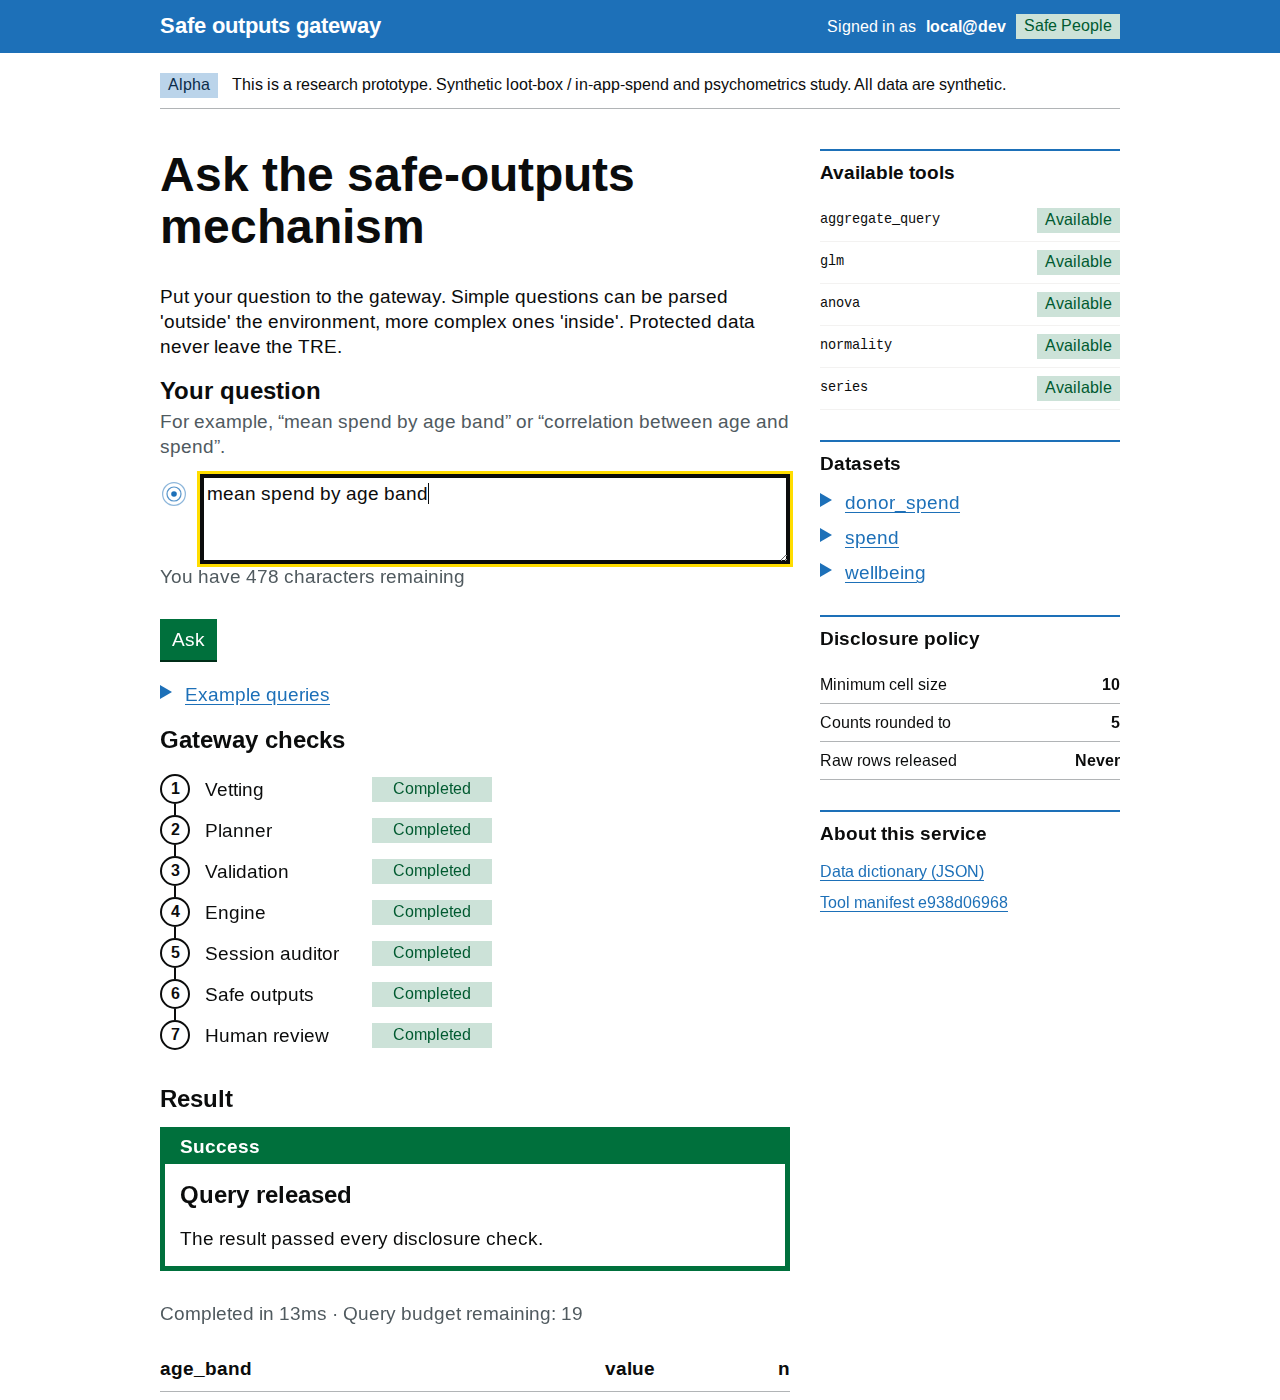
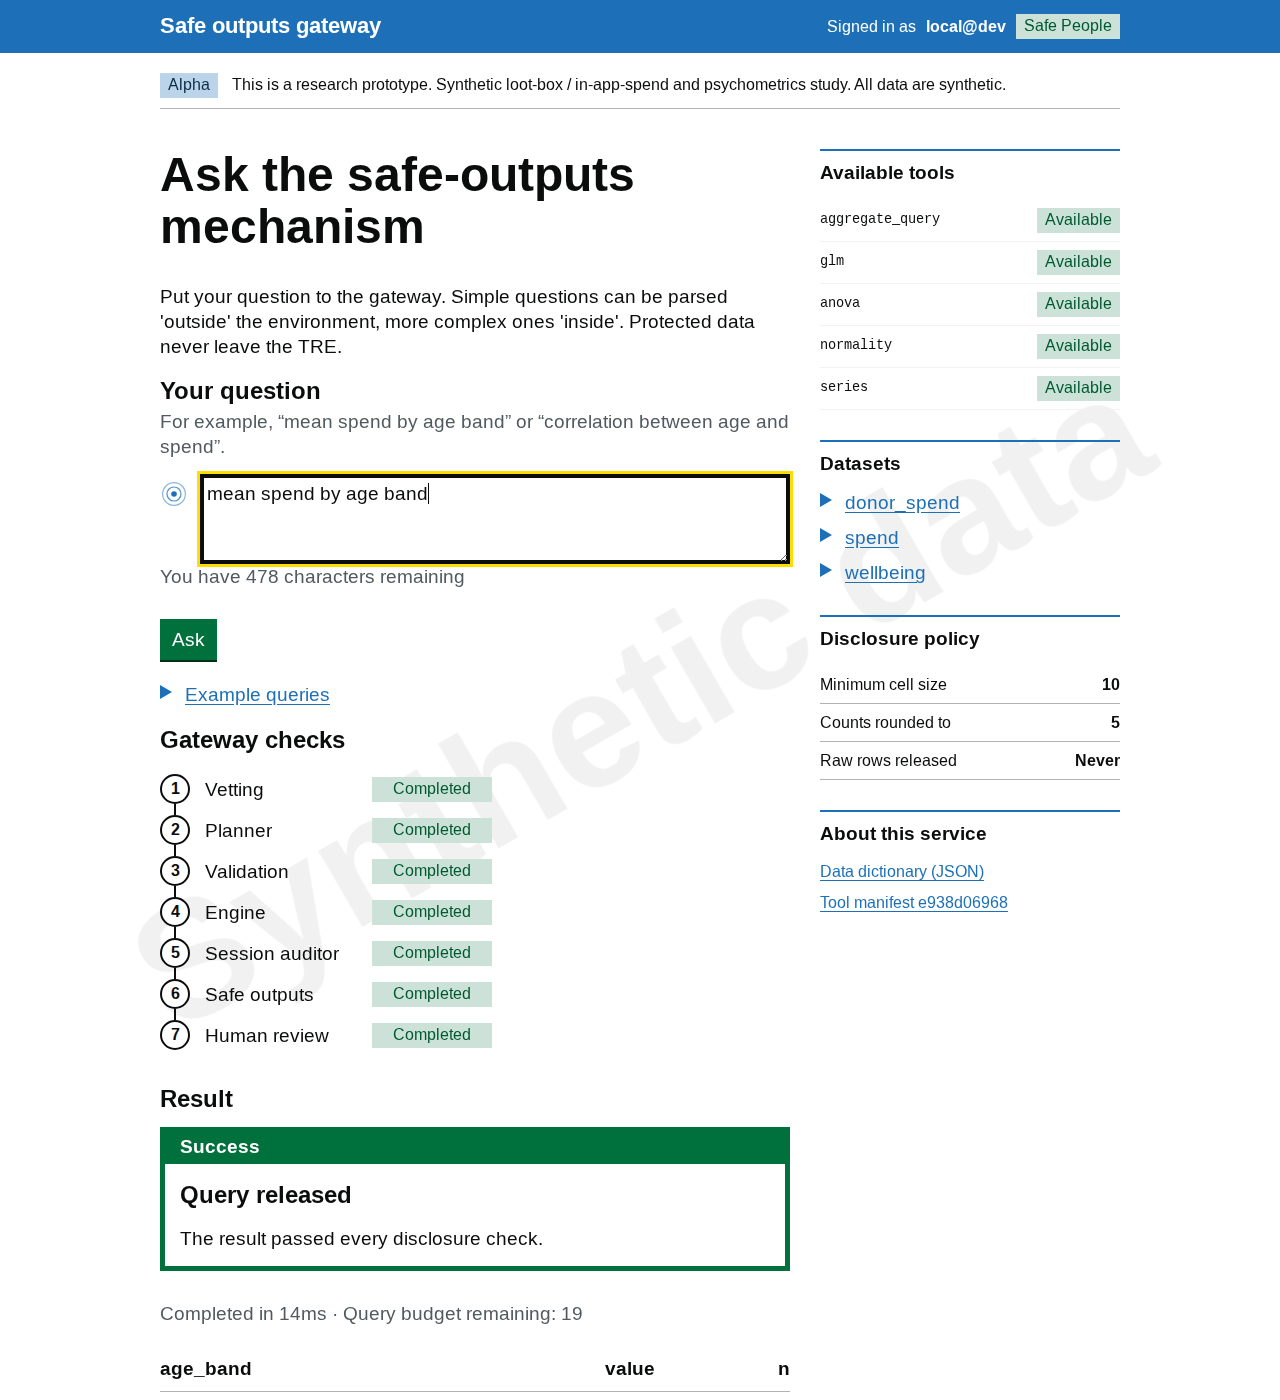
Default the parse switch to inside; add a synthetic-data watermark
When the operator enables the inside analyst, the parse switch now starts
on inside, and the page opens in the matching view. Flipping the switch
updates the view straight away, and #mode=outside in a link selects
outside. The docs that called outside the default now say it is the only
path while the inside analyst is off.

Every page carries a faint diagonal "Synthetic data" watermark, drawn as
generated content so it takes no clicks and stays out of the
accessibility tree.

Screenshots regenerated. docs/elif.md's cited suite size was stale
(1350); it is 1356.

diff --git a/safetre_web/templates/index.html b/safetre_web/templates/index.html
@@ -32,8 +32,8 @@
         {% if chimp_enabled %}
         <div class="mode-switch" id="mode" role="radiogroup" aria-label="How the question is parsed">
           <span class="mode-switch__label">parse</span>
-          <label class="mode-switch__opt"><input type="radio" name="mode" value="outside" checked><span>outside</span></label>
-          <label class="mode-switch__opt"><input type="radio" name="mode" value="inside"><span>inside</span></label>
+          <label class="mode-switch__opt"><input type="radio" name="mode" value="outside"><span>outside</span></label>
+          <label class="mode-switch__opt"><input type="radio" name="mode" value="inside" checked><span>inside</span></label>
         </div>
         {% endif %}
         <h1 class="heading-xl">Ask the safe-outputs mechanism</h1>
@@ -85,7 +85,7 @@
         {% endif %}
 
         <h2 class="heading-m">Gateway checks</h2>
-        <ol class="steps" id="pipeline">
+        <ol class="steps" id="pipeline"{% if chimp_enabled %} hidden{% endif %}>
           <li class="step" data-stage="vetting"><span class="step-circle" aria-hidden="true">1</span>
             <span class="step-name">Vetting</span>
             <strong class="tag tag--grey step-status">Not run</strong></li>
@@ -109,7 +109,7 @@
             <strong class="tag tag--grey step-status">Not run</strong></li>
         </ol>
 
-        <div id="gateway-live" hidden>
+        <div id="gateway-live"{% if not chimp_enabled %} hidden{% endif %}>
           <p class="gateway-note hint">In this mode the safe analysis engine sends
             each step through the whole gateway above. Each box below is one step
             and the gateway&rsquo;s verdict on it.</p>

diff --git a/safetre_web/static/app.js b/safetre_web/static/app.js
@@ -306,13 +306,14 @@ document.addEventListener("DOMContentLoaded", () => {
   // like SAFETRE_ALLOW_TEST_CLIENT it is a sentinel: never enable it on a real
   // deployment.
   const hash = new URLSearchParams(location.hash.slice(1));
-  if (hash.get("mode") === "inside") {
-    const inside = document.querySelector("input[name='mode'][value='inside']");
-    if (inside) {
-      inside.checked = true;
-      gatewayMode(true);
-    }
-  }
+  // Inside is the default when the switch is present; #mode=outside (or
+  // #mode=inside) in a link picks one explicitly.
+  const linked = document.querySelector(`input[name='mode'][value='${hash.get("mode")}']`);
+  if (linked) linked.checked = true;
+  gatewayMode(currentMode() === "inside");
+  document.querySelectorAll("input[name='mode']").forEach((radio) => {
+    radio.addEventListener("change", () => gatewayMode(currentMode() === "inside"));
+  });
   const preset = hash.get("q");
   if (preset) {
     input.value = preset.slice(0, input.maxLength);

diff --git a/safetre_web/static/app.css b/safetre_web/static/app.css
@@ -37,6 +37,27 @@ body {
   -webkit-font-smoothing: antialiased;
 }
 
+/* Every dataset this demo serves is synthetic; say so behind every screen,
+   screenshot and screen share. Generated content, not an element: it cannot
+   take clicks or focus, and the empty alt text keeps it out of the
+   accessibility tree (the page banner already says it in words). */
+body::before {
+  content: "Synthetic data";
+  content: "Synthetic data" / "";
+  position: fixed;
+  top: 50%;
+  left: 50%;
+  z-index: -1;
+  transform: translate(-50%, -50%) rotate(-30deg);
+  font-size: clamp(56px, 13vw, 180px);
+  font-weight: 700;
+  line-height: 1;
+  white-space: nowrap;
+  color: rgba(11, 12, 12, 0.06);
+  pointer-events: none;
+  user-select: none;
+}
+
 @media (min-width: 641px) {
   body { font-size: 19px; line-height: 1.3157894737; }
 }

diff --git a/tests/test_web.py b/tests/test_web.py
@@ -182,6 +182,19 @@ def test_capture_dossier_is_available_only_in_mock_capture_mode(monkeypatch):
         in complex_run.text
 
 
+def test_parse_switch_defaults_to_inside(monkeypatch):
+    import safetre_web.app as web
+
+    monkeypatch.setattr(web, "CHIMP_ENABLED", False)
+    assert 'name="mode"' not in client.get("/").text
+
+    monkeypatch.setattr(web, "CHIMP_ENABLED", True)
+    page = client.get("/").text
+    assert 'value="inside" checked' in page
+    assert 'value="outside" checked' not in page
+    assert '<ol class="steps" id="pipeline" hidden>' in page
+
+
 # --- #50: a prefill link fills the box, it does not run it ----------------------
 
 def test_a_prefill_link_does_not_run_itself_by_default():

diff --git a/docs/beginner.md b/docs/beginner.md
@@ -71,19 +71,19 @@ Denied requests are important. They are a safety feature, not a crash.
 
 The web interface can process a question in one of two ways:
 
-- **Parse outside** (the default). The planner turns your question into one
-  aggregate query, and the gateway-check strip shows it passing through each
-  control. This is the shipped single-query gateway.
-- **Parse inside**. A safe analysis engine inside the environment plans and runs
-  several analyses for a larger research question. Each step goes through the
-  same gateway, and only a dossier of vetted releases, with a summary written
-  from them, comes back.
+- **Parse outside**. The planner turns your question into one aggregate query,
+  and the gateway-check strip shows it passing through each control. This is
+  the shipped single-query gateway.
+- **Parse inside** (the default when the switch is shown). A safe analysis
+  engine inside the environment plans and runs several analyses for a larger
+  research question. Each step goes through the same gateway, and only a
+  dossier of vetted releases, with a summary written from them, comes back.
 
 The **parse outside / parse inside** switch appears only when the operator has
-enabled the inside analyst (`SAFETRE_ANALYST=chimp`); otherwise everything is
-processed outside. The [web interface walkthrough](web-walkthrough.md) shows
-both in two minutes, and [the inside analyst](inside-analyst.md) explains the
-design.
+enabled the inside analyst (`SAFETRE_ANALYST=chimp`), and it starts on
+**inside**; otherwise everything is processed outside. The [web interface
+walkthrough](web-walkthrough.md) shows both in two minutes, and [the inside
+analyst](inside-analyst.md) explains the design.
 
 ## What makes this different from a normal chatbot?
 

diff --git a/docs/demo-5-minutes.md b/docs/demo-5-minutes.md
@@ -91,18 +91,19 @@ In the UI, run these in order — or follow the
 Then re-run the audit check from step 4: the chain now covers those requests,
 including the denial.
 
-These queries use **parse outside**, the default single-query path. The
-[web interface walkthrough](web-walkthrough.md) narrates the same steps for a
-first-time user.
+These queries use **parse outside**, the single-query path and the only one
+while the inside analyst is off. The [web interface
+walkthrough](web-walkthrough.md) narrates the same steps for a first-time
+user.
 
 ### Optional: parse inside
 
 To see the inside analyst, restart the server from Variant B (it needs a model
 endpoint; the `mock` planner does not drive it) with `SAFETRE_ANALYST=chimp`.
-A **parse outside / parse inside** switch appears above the page title. Choose
-`inside` and ask a research question that needs more than one table; the page
-shows one box per analysis step as each is released or denied, then a dossier
-of vetted releases. See [the inside analyst](inside-analyst.md).
+A **parse outside / parse inside** switch appears above the page title and
+starts on `inside`. Ask a research question that needs more than one table;
+the page shows one box per analysis step as each is released or denied, then a
+dossier of vetted releases. See [the inside analyst](inside-analyst.md).
 
 ## 6. Stop cleanly
 

diff --git a/docs/screenshot-tour.md b/docs/screenshot-tour.md
@@ -71,10 +71,10 @@ re-run it from the log alone, without trusting the server that produced it.
 
 ![The ask box with the inside analyst enabled](figures/demo-inside-toggle.png)
 
-The captures above use **parse outside**, the default single-query path, with
-the inside analyst off. When an operator sets `SAFETRE_ANALYST=chimp`, the ask
-box gains a **parse outside / parse inside** switch. Parse inside sends the
-whole question to the safe analysis engine, which runs several analyses behind
+The captures above use **parse outside**, the single-query path and the only
+one with the inside analyst off. When an operator sets `SAFETRE_ANALYST=chimp`,
+the ask box gains a **parse outside / parse inside** switch, set to inside by
+default. Parse inside sends the whole question to the safe analysis engine, which runs several analyses behind
 the same gateway and returns a dossier of vetted releases. The reproducible
 capture set also includes a fixed two-step dossier; see [Your first inside
 analysis](first-inside-analysis.md). It uses an explicit mock-only capture

diff --git a/docs/elif.md b/docs/elif.md
@@ -132,7 +132,7 @@ the new "declare every released column" contract exists to make impossible.
 |---|---|
 | Requirement / prohibition clauses in the spec | R1–R18, P1–P22 |
 | Model shapes, all machine-checked | 767 (718 GLM + 49 ANOVA) |
-| Tests collected in the default suite | 1350 (plus an exhaustive `-m slow` pass) |
+| Tests collected in the default suite | 1356 (plus an exhaustive `-m slow` pass) |
 | Red-team scenarios, every attack blocked by a named control | 34 (29 attacks, 5 benign) |
 | Solver-checked properties (Alloy, in CI) | 25, across five models |
 | Coefficient agreement with reference implementations | ~1e-14 (exact maths), 1e-8 (tested bound) |

diff --git a/docs/first-inside-analysis.md b/docs/first-inside-analysis.md
@@ -17,8 +17,9 @@ whether the number of late-night sessions relates to stake.
 
 ## Choose inside analysis
 
-The small switch above the question box has two options. Choose **inside** when
-one question needs several linked analyses.
+The small switch above the question box has two options. **Inside** is
+selected by default; keep it when one question needs several linked analyses,
+and switch to **outside** for a single calculation.
 
 ![The inside option above the question box](figures/demo-inside-toggle.png)
 
